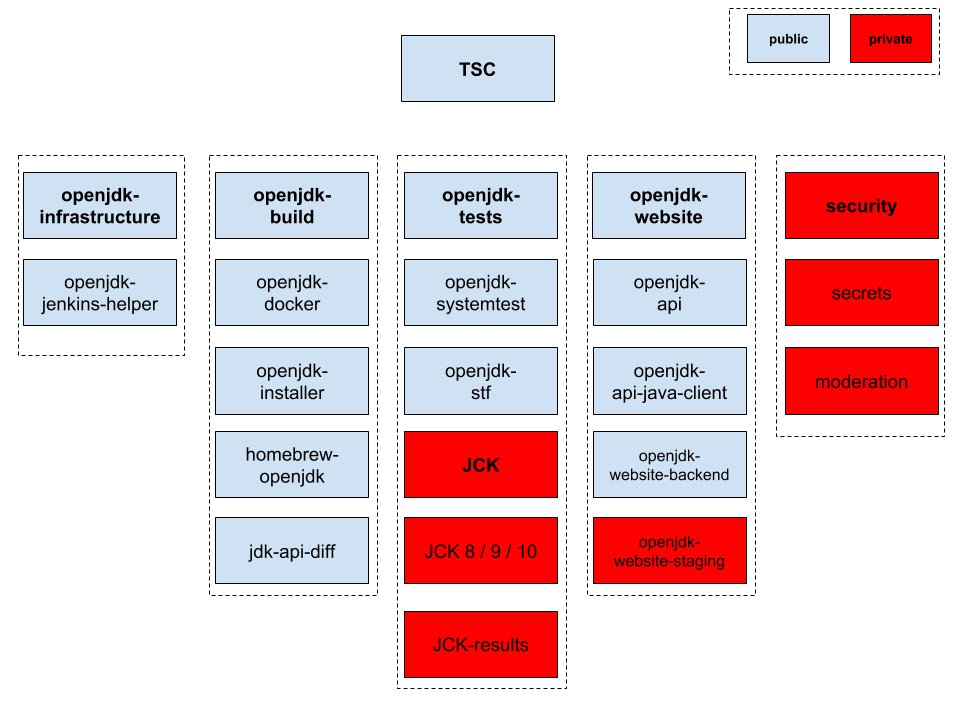
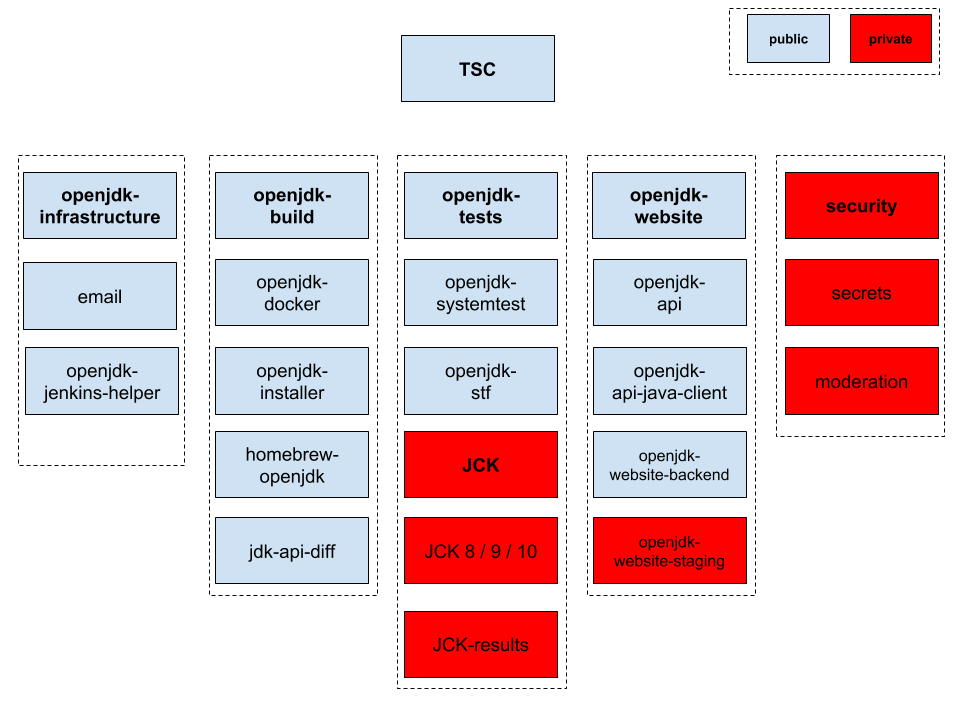
add email to TSC repo list (#23)
* add email to TSC repo list

* Add files via upload

* Delete Adopt_Build_Farm_Repo_Relationships.png

* Delete Adopt Build Farm Repo Relationships.png

* Add files via upload

Changed region(s): [[0.0, 0.3361, 0.1875, 0.5806]]

diff --git a/README.md b/README.md
@@ -33,8 +33,9 @@ changes.)
   * [security](https://github.com/AdoptOpenJDK/security) - A private repo for the security team
     * [moderation](https://github.com/AdoptOpenJDK/moderation) - A private repo for moderation requests
     * [secrets](https://github.com/AdoptOpenJDK/secrets) - A private repo for secrets
-* [openjdk-infrastructure](https://github.com/AdoptOpenJDK/openjdk-infrastructure) - Infrastructure as Code and documentation for build farm hosts
-    * [openjdk-jenkins-helper](https://github.com/AdoptOpenJDK/openjdk-jenkins-helper) - A auto label generator for Jenkins
+* [openjdk-infrastructure](https://github.com/AdoptOpenJDK/openjdk-infrastructure) - Infrastructure as Code and documentation for build farm hosts]
+    * [email](https://github.com/AdoptOpenJDK/email) - For handling all org emails (mailgun)
+    * [openjdk-jenkins-helper](https://github.com/AdoptOpenJDK/openjdk-jenkins-helper) - An auto label generator for Jenkins
 * [openjdk-build](https://github.com/AdoptOpenJDK/openjdk-build) - Code and instructions for building Adopt OpenJDK Binaries
     * [openjdk-docker](https://github.com/AdoptOpenJDK/openjdk-docker) - Scripts for creating Docker images of OpenJDK binaries
     * [openjdk-installer](https://github.com/AdoptOpenJDK/openjdk-installer) - Installer files for creating platform packaged OpenJDK binaries
